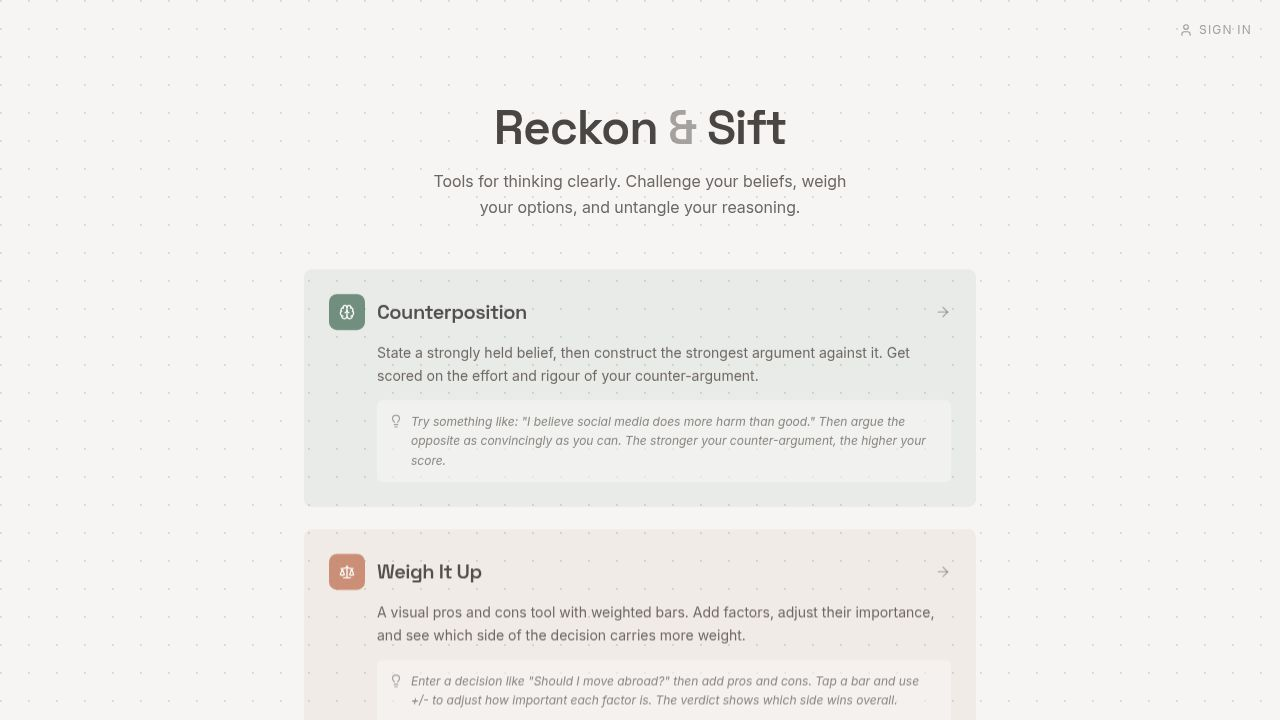
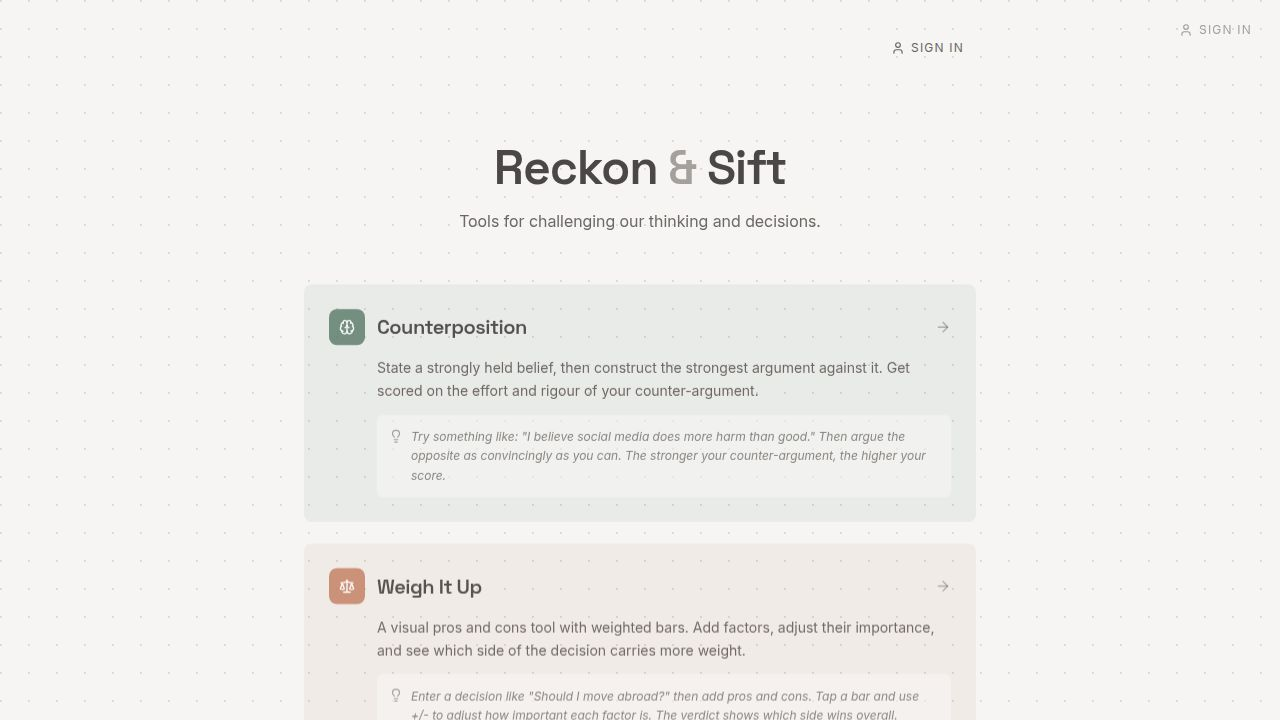
Update application to reflect new subtitle and adjust data handling
Align backend schema and frontend logic to incorporate 'tradeCost' and correct data field names for exercises.

Replit-Commit-Author: Agent
Replit-Commit-Session-Id: c56cb9f0-ece5-44cb-8091-604c8c0c9004
Replit-Commit-Checkpoint-Type: full_checkpoint
Replit-Commit-Event-Id: 285cc839-a66f-4d39-a293-1dc12d2c1cd1
Replit-Commit-Screenshot-Url: https://storage.googleapis.com/screenshot-production-us-central1/ae5b64c9-4776-44ef-aa27-5b3fa9850580/c56cb9f0-ece5-44cb-8091-604c8c0c9004/5yRqdfN
Replit-Helium-Checkpoint-Created: true

diff --git a/shared/schema.ts b/shared/schema.ts
@@ -25,7 +25,7 @@ export const counterpositionExercises = pgTable("counterposition_exercises", {
   counterArgument: text("counter_argument").notNull(),
   grade: text("grade").notNull(),
   summary: text("summary").notNull(),
-  metrics: jsonb("metrics").notNull(),
+  metrics: jsonb("metric_grades").notNull(),
   createdAt: timestamp("created_at").defaultNow().notNull(),
 });
 
@@ -40,7 +40,7 @@ export type CounterpositionExercise = typeof counterpositionExercises.$inferSele
 export const weighItUpExercises = pgTable("weigh_it_up_exercises", {
   id: varchar("id").primaryKey().default(sql`gen_random_uuid()`),
   userId: varchar("user_id").notNull().references(() => users.id),
-  decision: text("decision").notNull(),
+  decision: text("topic").notNull(),
   pros: jsonb("pros").notNull(),
   cons: jsonb("cons").notNull(),
   proPercent: integer("pro_percent").notNull(),
@@ -61,6 +61,7 @@ export const unthreadExercises = pgTable("unthread_exercises", {
   userId: varchar("user_id").notNull().references(() => users.id),
   question: text("question").notNull(),
   chain: jsonb("chain").notNull(),
+  tradeCost: text("trade_cost").notNull(),
   tradeGain: text("trade_gain").notNull(),
   alternatives: jsonb("alternatives").notNull(),
   createdAt: timestamp("created_at").defaultNow().notNull(),

diff --git a/client/src/pages/home.tsx b/client/src/pages/home.tsx
@@ -159,7 +159,7 @@ export default function Home() {
               Reckon <span className="text-muted-foreground/60">&</span> Sift
             </h1>
             <p className="text-base text-muted-foreground mt-4 max-w-md mx-auto leading-relaxed">
-              Tools for thinking clearly. Challenge your beliefs, weigh your options, and untangle your reasoning.
+              Tools for challenging our thinking and decisions.
             </p>
           </div>
 

diff --git a/server/routes.ts b/server/routes.ts
@@ -51,6 +51,7 @@ export async function registerRoutes(
   const unthreadBody = z.object({
     question: z.string().min(1),
     chain: z.array(z.any()),
+    tradeCost: z.string(),
     tradeGain: z.string(),
     alternatives: z.record(z.any()),
   });

diff --git a/client/src/pages/unthread.tsx b/client/src/pages/unthread.tsx
@@ -148,6 +148,7 @@ export default function Unthread() {
       await apiRequest("POST", "/api/exercises/unthread", {
         question,
         chain,
+        tradeCost: question,
         tradeGain,
         alternatives: linkAlternatives,
       });
